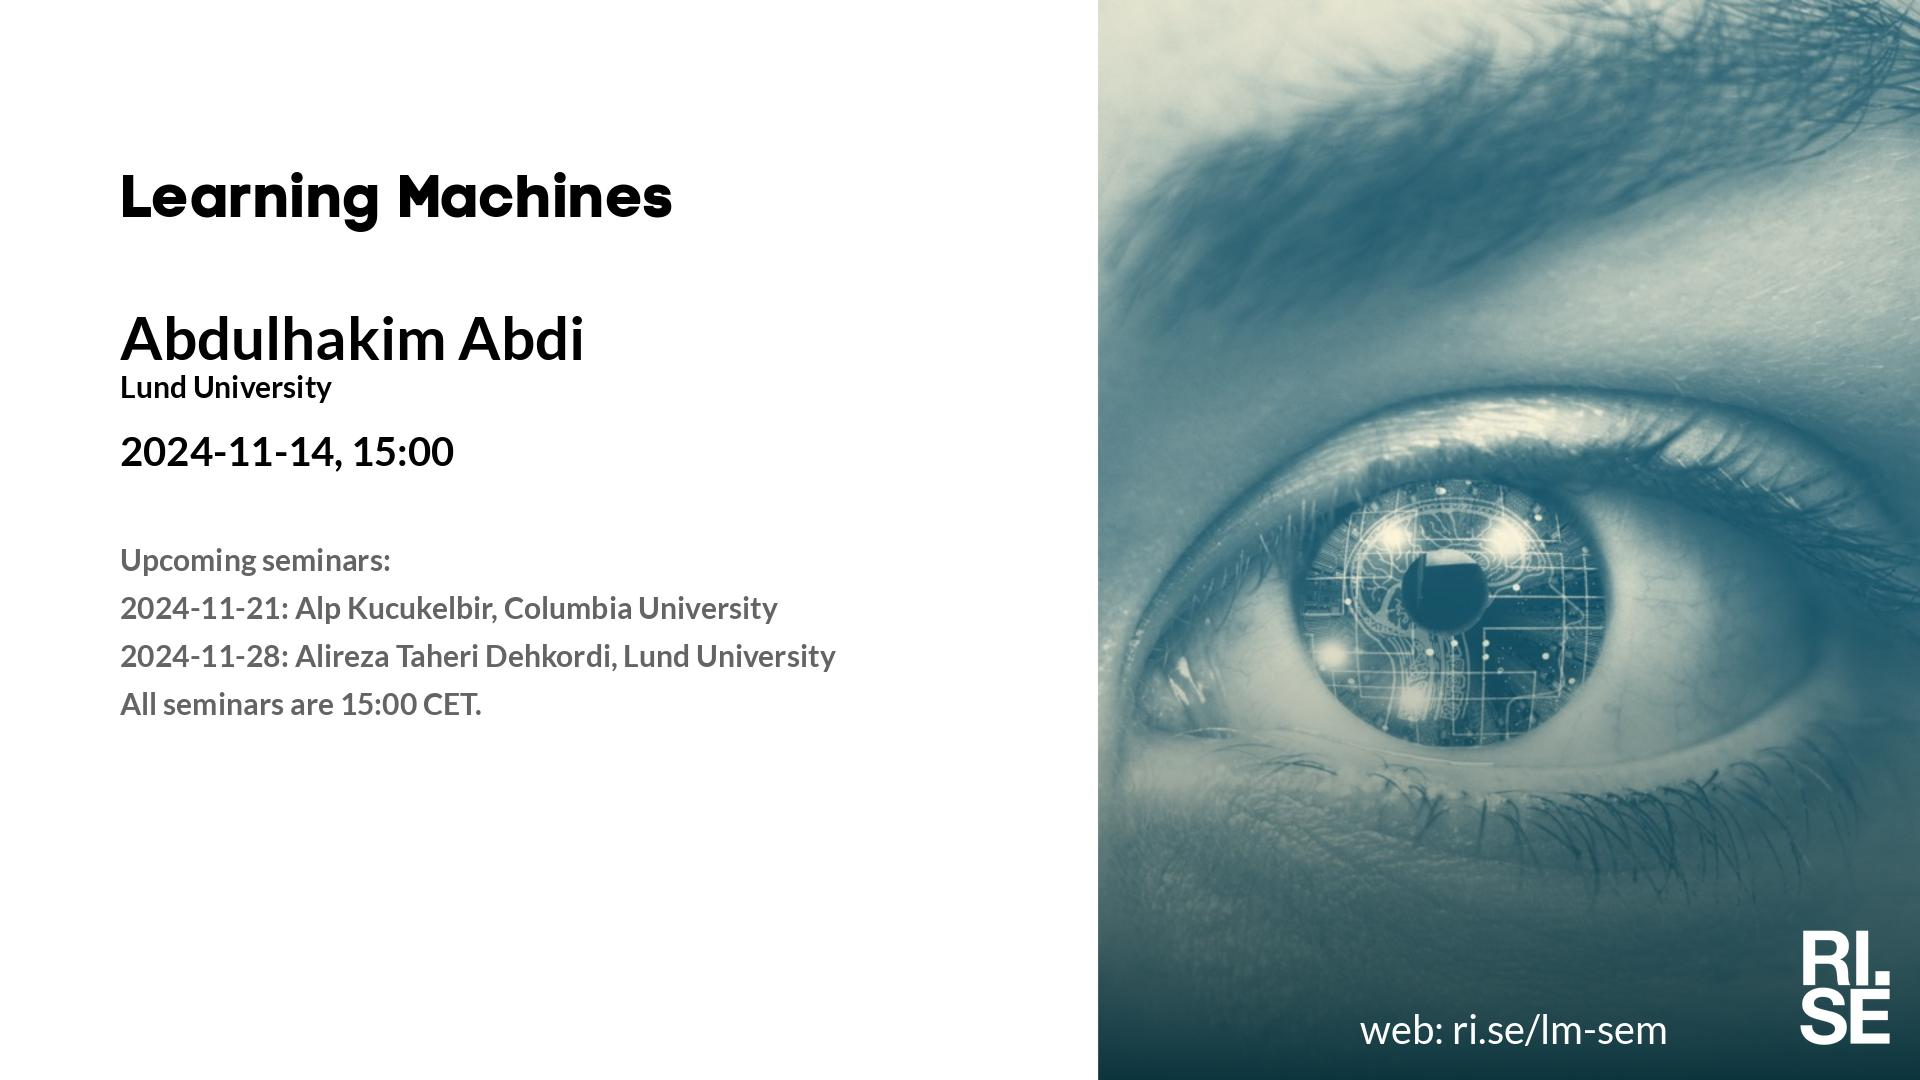
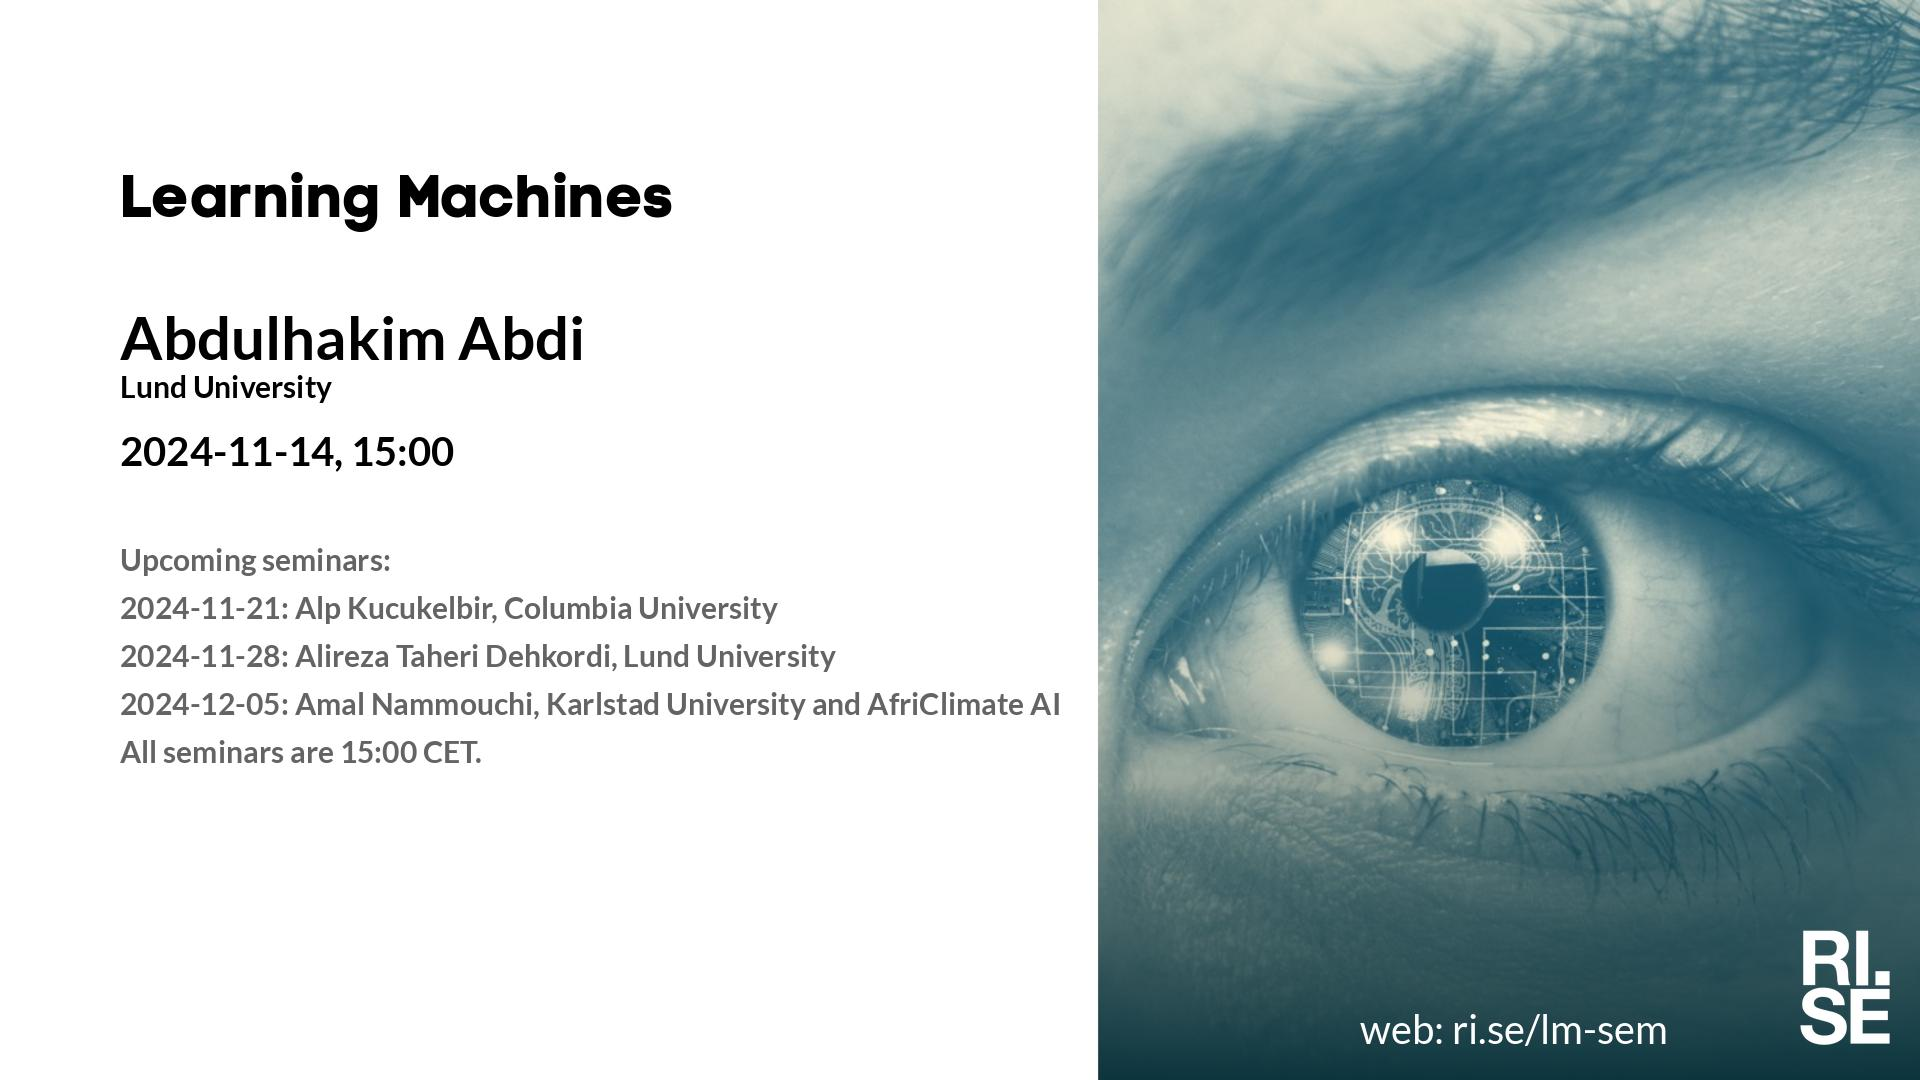
Updated plan on web site.

Changed region(s): [[0.0625, 0.6417, 0.5625, 0.7028]]

diff --git a/lm/index.md b/lm/index.md
@@ -22,7 +22,7 @@ table {border-collapse: collapse;}
 |  2024-11-14  |  [Abdulhakim Abdi, Lund University](2024-11-14.md)  |  [photo](photo-abdulhakim-abdi.jpg)  |  [social media ](social-media-abdulhakim-abdi.jpg)  |  [meeting backdrop ](meeting-backdrop-abdulhakim-abdi.jpg)  |  [youtube thumbnail ](youtube-thumbnail-abdulhakim-abdi.jpg)  |  S~~TAB~~P  |
 |  2024-11-21  |  [Alp Kucukelbir, Columbia University](2024-11-21.md)  |    |  [social media ](social-media-alp-kucukelbir.jpg)  |  [meeting backdrop ](meeting-backdrop-alp-kucukelbir.jpg)  |  [youtube thumbnail ](youtube-thumbnail-alp-kucukelbir.jpg)  |  S~~TABP~~  |
 |  2024-11-28  |  [Alireza Taheri Dehkordi, Lund University](2024-11-28.md)  |    |  [social media ](social-media-alireza-taheri-dehkordi.jpg)  |  [meeting backdrop ](meeting-backdrop-alireza-taheri-dehkordi.jpg)  |  [youtube thumbnail ](youtube-thumbnail-alireza-taheri-dehkordi.jpg)  |  S~~TABP~~  |
-| <span style="color:grey"> 2024-12-05 </span> | <span style="color:grey"> Amal N. ? </span> | <span style="color:grey">  </span> | <span style="color:grey">  </span> | <span style="color:grey">  </span> | <span style="color:grey">  </span> | <span style="color:grey"> S~~TABP~~ </span> |
+|  2024-12-05  |  [Amal Nammouchi, Karlstad University and AfriClimate AI](2024-12-05.md)  |    |  [social media ](social-media-amal-nammouchi.jpg)  |  [meeting backdrop ](meeting-backdrop-amal-nammouchi.jpg)  |  [youtube thumbnail ](youtube-thumbnail-amal-nammouchi.jpg)  |  S~~TABP~~  |
 | <span style="color:purple"> 2024-12-12 </span> | <span style="color:purple"> *Up for grabs!!!* </span> | <span style="color:purple">  </span> | <span style="color:purple">  </span> | <span style="color:purple">  </span> | <span style="color:purple">  </span> | <span style="color:purple"> ~~STABP~~ </span> |
 | <span style="color:red"> 2024-12-19 </span> | <span style="color:red"> Jullov </span> | <span style="color:red">  </span> | <span style="color:red">  </span> | <span style="color:red">  </span> | <span style="color:red">  </span> | <span style="color:red"> CANCELLED </span> |
 | <span style="color:red"> 2024-12-26 </span> | <span style="color:red"> Jullov </span> | <span style="color:red">  </span> | <span style="color:red">  </span> | <span style="color:red">  </span> | <span style="color:red">  </span> | <span style="color:red"> CANCELLED </span> |

diff --git a/lm/2024-12-05.md b/lm/2024-12-05.md
@@ -6,7 +6,7 @@ Welcome to this week's Learning Machines seminar.
 
 **Title:** N/A
 
-**Speaker:** Alireza Taheri Dehkordi, Lund University
+**Speaker:** Amal Nammouchi, Karlstad University and AfriClimate AI
 
 **Abstract:** N/A
 
@@ -14,13 +14,12 @@ Welcome to this week's Learning Machines seminar.
 
 **Location:** This is an online seminar. Connect using Zoom.
 
-**Date:** 2024-11-28 15:00
+**Date:** 2024-12-05 15:00
 
 **Zoom link:** [https://rise.zoom.us/j/208117140](https://rise.zoom.us/j/208117140)
 
 **Upcoming seminars:**
 
-* 2024-12-05: Amal Nammouchi, Karlstad University and AfriClimate AI
 * All seminars are 15:00 CET.
 
 More information and coming seminars: [https://ri.se/lm-sem](https://ri.se/lm-sem)

diff --git a/lm/2024-11-14.md b/lm/2024-11-14.md
@@ -22,6 +22,7 @@ Welcome to this week's Learning Machines seminar.
 
 * 2024-11-21: Alp Kucukelbir, Columbia University
 * 2024-11-28: Alireza Taheri Dehkordi, Lund University
+* 2024-12-05: Amal Nammouchi, Karlstad University and AfriClimate AI
 * All seminars are 15:00 CET.
 
 More information and coming seminars: [https://ri.se/lm-sem](https://ri.se/lm-sem)

diff --git a/lm/2024-11-21.md b/lm/2024-11-21.md
@@ -21,6 +21,7 @@ Welcome to this week's Learning Machines seminar.
 **Upcoming seminars:**
 
 * 2024-11-28: Alireza Taheri Dehkordi, Lund University
+* 2024-12-05: Amal Nammouchi, Karlstad University and AfriClimate AI
 * All seminars are 15:00 CET.
 
 More information and coming seminars: [https://ri.se/lm-sem](https://ri.se/lm-sem)
